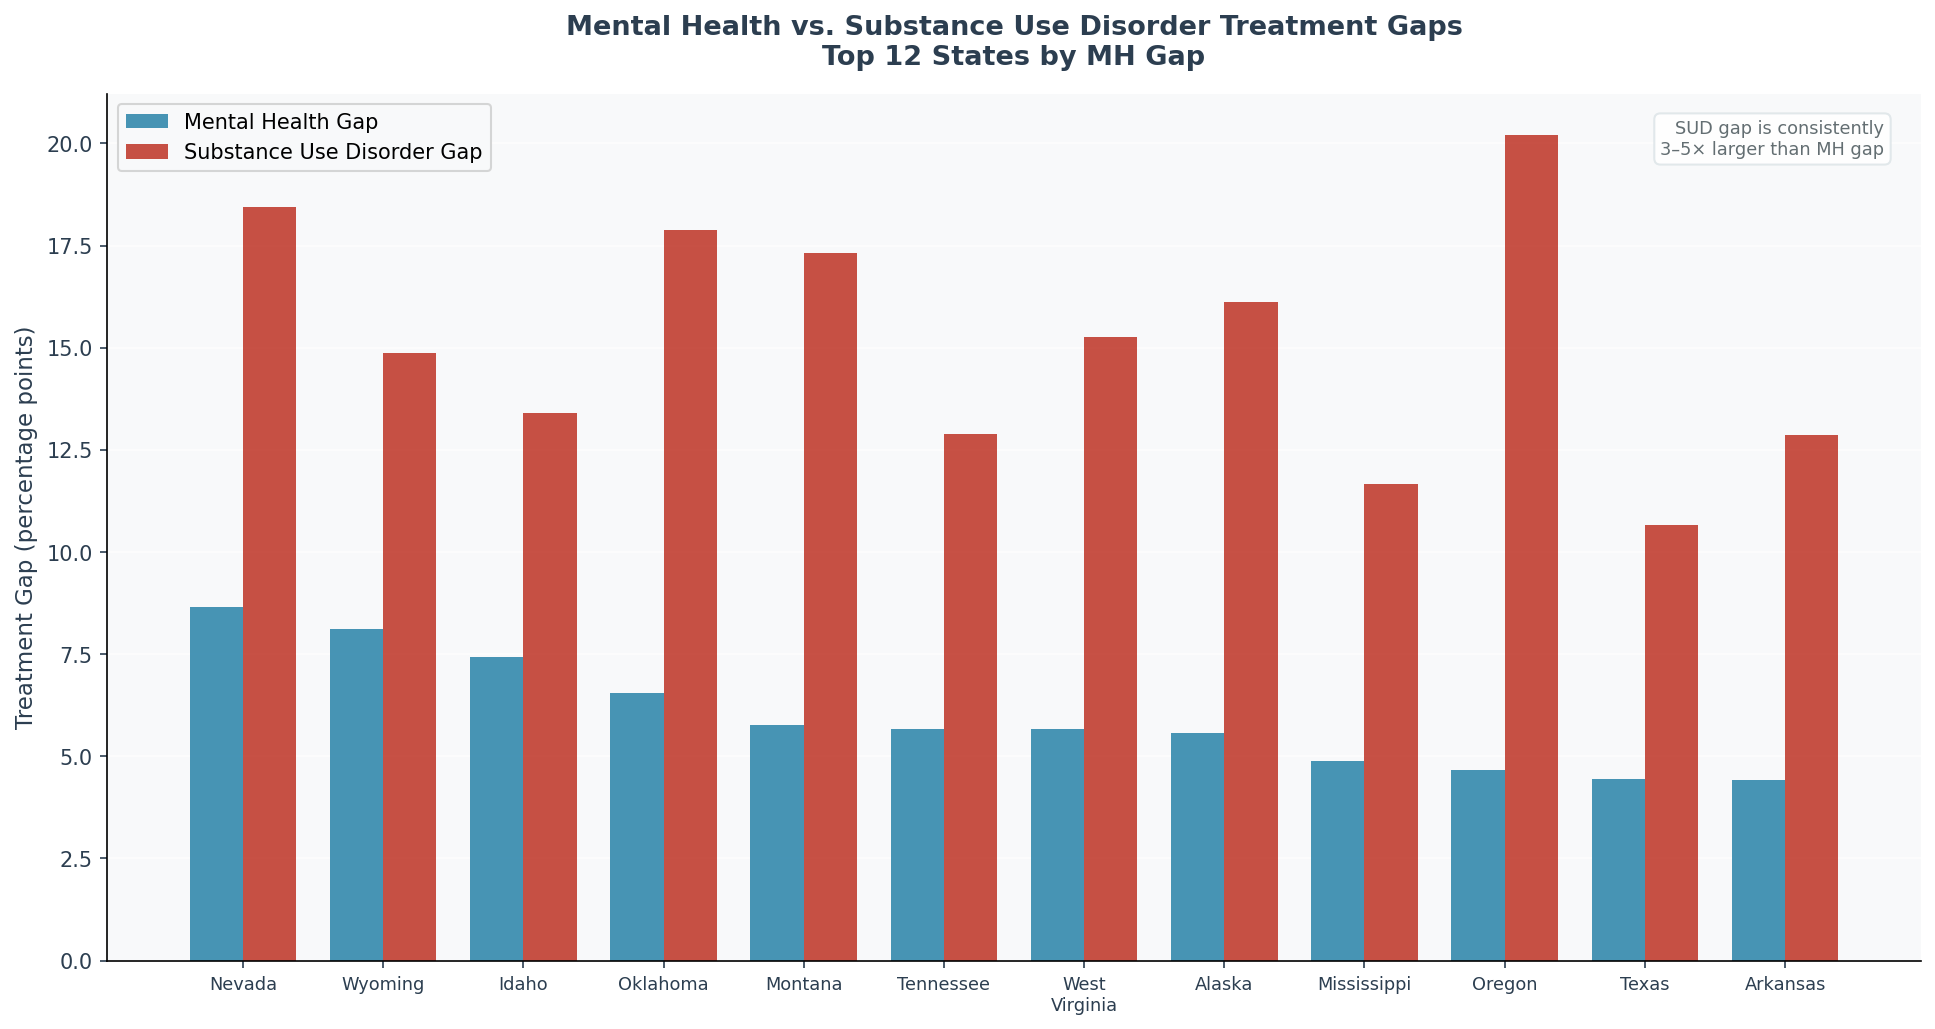
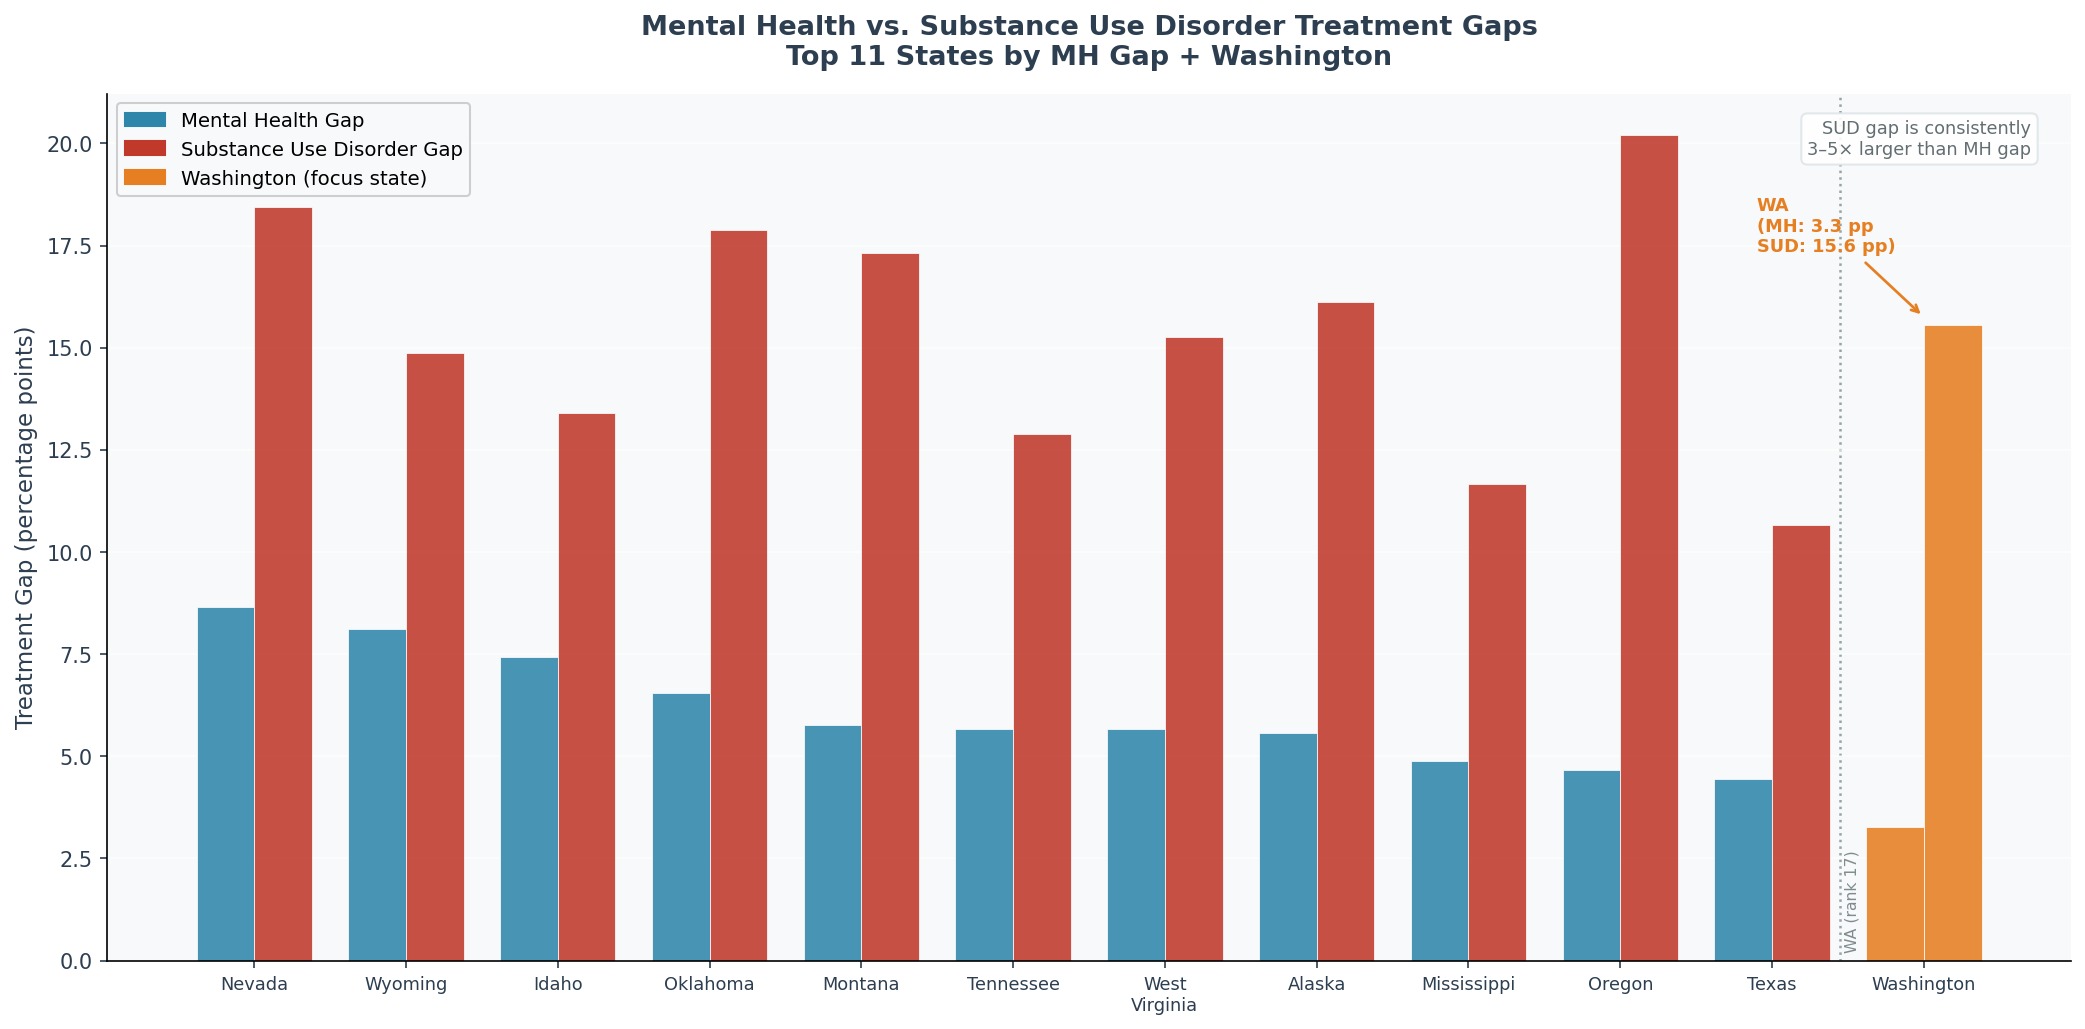
Fix fig6+fig7: force-include Washington with amber highlight and rank annotation

diff --git a/Code.py b/Code.py
@@ -578,35 +578,63 @@ def fig5_gap_distribution(d):
 
 
 def fig6_mh_vs_sud_gaps(d):
-    """Grouped bar: MH vs SUD gaps for top 12 states by MH gap."""
+    """Grouped bar: MH vs SUD gaps — top 11 states + Washington always included."""
     states  = d['state']
     mh_gap  = d['mh_gap']
     sud_gap = d['sud_gap']
 
-    sorted_idx = sorted(range(len(states)), key=lambda i: mh_gap[i], reverse=True)[:12]
-    top_states = [states[i] for i in sorted_idx]
-    top_mh     = [mh_gap[i] for i in sorted_idx]
-    top_sud    = [sud_gap[i] for i in sorted_idx]
+    # Top 11 by MH gap, then force-append Washington if not already present
+    sorted_idx = sorted(range(len(states)), key=lambda i: mh_gap[i], reverse=True)
+    top_idx = sorted_idx[:11]
+    wa_idx  = states.index('Washington')
+    if wa_idx not in top_idx:
+        top_idx = top_idx + [wa_idx]   # Washington appended at the right
 
-    fig, ax = plt.subplots(figsize=(13, 7))
+    top_states = [states[i] for i in top_idx]
+    top_mh     = [mh_gap[i]  for i in top_idx]
+    top_sud    = [sud_gap[i] for i in top_idx]
+
+    mh_colors  = [C_AMBER if s == 'Washington' else C_BLUE for s in top_states]
+    sud_colors = [C_AMBER if s == 'Washington' else C_RED  for s in top_states]
+
+    fig, ax = plt.subplots(figsize=(14, 7))
     x = np.arange(len(top_states))
     w = 0.38
 
-    bar_mh  = ax.bar(x - w/2, top_mh,  w, label='Mental Health Gap',     color=C_BLUE,  alpha=0.88, zorder=2)
-    bar_sud = ax.bar(x + w/2, top_sud, w, label='Substance Use Disorder Gap', color=C_RED, alpha=0.88, zorder=2)
+    bar_mh  = ax.bar(x - w/2, top_mh,  w, color=mh_colors,  alpha=0.88,
+                     label='Mental Health Gap', zorder=2, edgecolor='white', linewidth=0.4)
+    bar_sud = ax.bar(x + w/2, top_sud, w, color=sud_colors, alpha=0.88,
+                     label='Substance Use Disorder Gap', zorder=2, edgecolor='white', linewidth=0.4)
 
-    for i, s in enumerate(top_states):
-        if s == 'Washington':
-            bar_mh[i].set_facecolor(C_AMBER)
-            bar_sud[i].set_facecolor(C_AMBER)
+    # Label WA bars directly
+    wa_pos = top_states.index('Washington')
+    ax.annotate(f'WA\n(MH: {top_mh[wa_pos]:.1f} pp\nSUD: {top_sud[wa_pos]:.1f} pp)',
+                xy=(x[wa_pos], top_sud[wa_pos] + 0.2),
+                xytext=(x[wa_pos] - 1.1, top_sud[wa_pos] + 1.8),
+                fontsize=8.5, fontweight='bold', color=C_AMBER,
+                arrowprops=dict(arrowstyle='->', color=C_AMBER, lw=1.3))
+
+    # Separator line before Washington if it was appended
+    if wa_idx not in sorted_idx[:11]:
+        ax.axvline(x[wa_pos] - 0.55, color='#95A5A6', lw=1.2, linestyle=':', zorder=1)
+        ax.text(x[wa_pos] - 0.52, ax.get_ylim()[1] * 0.01, 'WA (rank 17)',
+                fontsize=7.5, color='#7F8C8D', rotation=90, va='bottom')
 
     ax.set_xticks(x)
     ax.set_xticklabels([s.replace(' ', '\n') for s in top_states], fontsize=8.5)
     ax.set_ylabel('Treatment Gap (percentage points)', fontsize=11)
-    ax.set_title('Mental Health vs. Substance Use Disorder Treatment Gaps\nTop 12 States by MH Gap',
+    ax.set_title('Mental Health vs. Substance Use Disorder Treatment Gaps\nTop 11 States by MH Gap + Washington',
                  fontsize=13, fontweight='bold', color=C_DARK, pad=14)
-    ax.legend(fontsize=10)
-    ax.grid(axis='y', alpha=0.6, zorder=1)
+
+    # Legend: colors + WA marker
+    wa_patch = mpatches.Patch(color=C_AMBER, label='Washington (focus state)')
+    leg_handles = [
+        mpatches.Patch(color=C_BLUE,  label='Mental Health Gap'),
+        mpatches.Patch(color=C_RED,   label='Substance Use Disorder Gap'),
+        wa_patch,
+    ]
+    ax.legend(handles=leg_handles, fontsize=9.5, framealpha=0.95)
+    ax.grid(axis='y', alpha=0.5, zorder=1)
 
     ax.text(0.98, 0.97,
             'SUD gap is consistently\n3–5× larger than MH gap',
@@ -621,33 +649,63 @@ def fig6_mh_vs_sud_gaps(d):
 
 
 def fig7_unmet_need_ranking(d):
-    """Horizontal bar: AMI unmet need % — top 20 states."""
+    """Horizontal bar: AMI unmet need % — top 19 states + Washington always shown."""
     states    = d['state']
     ami_unmet = d['ami_unmet']
 
-    sorted_idx = sorted(range(len(states)), key=lambda i: ami_unmet[i], reverse=True)[:20]
-    un_states  = [states[i] for i in sorted_idx]
-    un_vals    = [ami_unmet[i] for i in sorted_idx]
-    colors     = [C_WA if s == 'Washington' else C_BLUE for s in un_states]
+    sorted_idx = sorted(range(len(states)), key=lambda i: ami_unmet[i], reverse=True)
+    wa_idx     = states.index('Washington')
+    top_idx    = sorted_idx[:19]
+    wa_in_top  = wa_idx in top_idx
 
-    fig, ax = plt.subplots(figsize=(9, 8))
-    bars = ax.barh(range(len(un_states)), un_vals[::-1],
-                   color=colors[::-1], alpha=0.88, edgecolor='white', linewidth=0.5)
+    if not wa_in_top:
+        top_idx = top_idx + [wa_idx]   # Washington appended at the bottom (lowest value)
 
-    for i, (bar, val) in enumerate(zip(bars, un_vals[::-1])):
-        ax.text(val + 0.3, i, f'{val:.1f}%', va='center', fontsize=8.5, color=C_DARK)
+    un_states = [states[i] for i in top_idx]
+    un_vals   = [ami_unmet[i] for i in top_idx]
+    colors    = [C_AMBER if s == 'Washington' else C_BLUE for s in un_states]
 
-    ax.set_yticks(range(len(un_states)))
-    ax.set_yticklabels(un_states[::-1], fontsize=9)
+    n = len(un_states)
+    fig, ax = plt.subplots(figsize=(10, n * 0.42 + 1.5))
+
+    # Reversed so highest is at the top
+    bars = ax.barh(range(n), un_vals[::-1],
+                   color=colors[::-1], alpha=0.88, edgecolor='white', linewidth=0.5, zorder=2)
+
+    # Value labels
+    for i, val in enumerate(un_vals[::-1]):
+        ax.text(val + 0.25, i, f'{val:.1f}%', va='center', fontsize=8.5, color=C_DARK)
+
+    # Separator + annotation for Washington if appended
+    if not wa_in_top:
+        # Washington is last in un_states, first in reversed = position 0
+        ax.axhline(0.5, color='#95A5A6', lw=1.2, linestyle=':', zorder=1)
+        wa_val = un_vals[-1]
+        wa_rank = sorted_idx.index(wa_idx) + 1
+        ax.text(wa_val + 0.25, 0,
+                f'  WA (rank #{wa_rank} nationally)',
+                va='center', fontsize=8, color=C_AMBER, fontweight='bold')
+
+    ax.set_yticks(range(n))
+    ax.set_yticklabels(un_states[::-1], fontsize=9.5)
+
+    # Bold + color Washington label
+    for lbl, s in zip(ax.get_yticklabels(), un_states[::-1]):
+        if s == 'Washington':
+            lbl.set_fontweight('bold')
+            lbl.set_color(C_AMBER)
+
     ax.set_xlabel('Adults with AMI Who Did NOT Receive Treatment (%)', fontsize=10)
-    ax.set_title('Unmet Mental Health Need — Top 20 States\n(% of people with AMI who go without treatment)',
+    title_suffix = 'Top 19 States + Washington' if not wa_in_top else 'Top 20 States'
+    ax.set_title(f'Unmet Mental Health Need — {title_suffix}\n(% of people with AMI who go without treatment)',
                  fontsize=12, fontweight='bold', color=C_DARK, pad=14)
 
-    wa_label  = mpatches.Patch(color=C_WA,   label='Washington')
-    oth_label = mpatches.Patch(color=C_BLUE,  label='Other states')
-    ax.legend(handles=[wa_label, oth_label], fontsize=9, loc='lower right')
-    ax.grid(axis='x', alpha=0.6)
-    ax.set_xlim(0, max(un_vals) + 4)
+    wa_patch  = mpatches.Patch(color=C_AMBER, label='Washington (focus state)')
+    oth_patch = mpatches.Patch(color=C_BLUE,  label='Other states')
+    ax.legend(handles=[wa_patch, oth_patch], fontsize=9, loc='lower right')
+    ax.grid(axis='x', alpha=0.5, zorder=1)
+    ax.set_xlim(0, max(un_vals) + 5)
+    ax.tick_params(axis='y', length=0)
 
     plt.tight_layout()
     path = OUT_DIR + 'fig7_unmet_need_ranking.png'